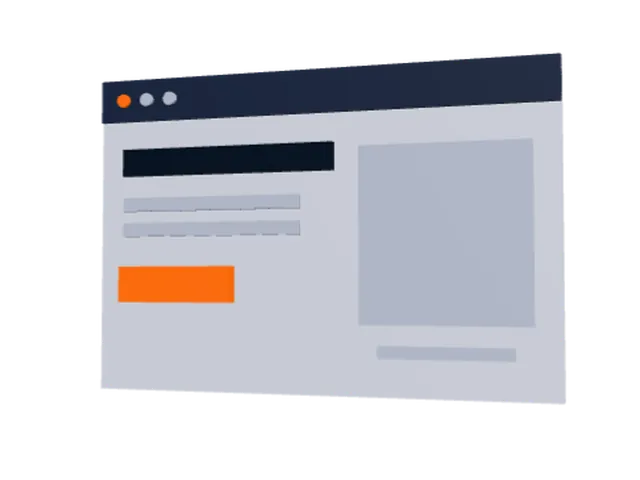
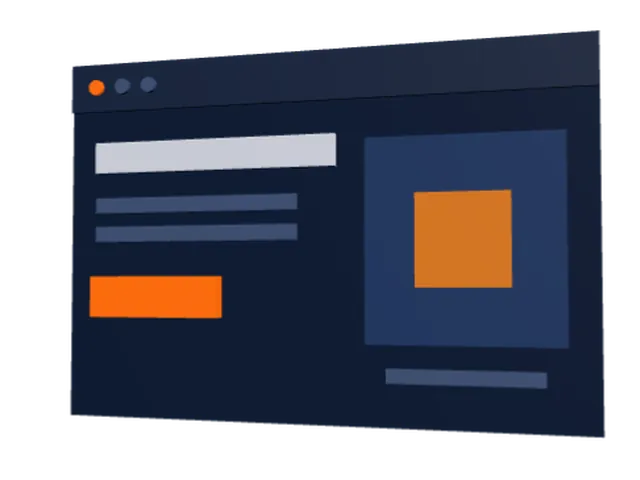
Finish review: phone pin frame, full-sky sunrise, gentler pull-back, full-row bento lead, objects clear of cards, night-mode browser object

diff --git a/src/scripts/object-scene.ts b/src/scripts/object-scene.ts
@@ -93,7 +93,7 @@ export async function mountObjectScene(opts: { canvas: HTMLCanvasElement; kind: 
     add(new CylinderGeometry(0.32, 0.32, 0.08, 32), orange, -0.55, -1.25, 0.22).rotation.x = Math.PI / 2; // answer
     add(new CylinderGeometry(0.32, 0.32, 0.08, 32), mat(0x2e7d5b), 0.55, -1.25, 0.22).rotation.x = Math.PI / 2;
     for (let i = 0; i < 3; i++) {
-      const r = add(new TorusGeometry(1.7 + i * 0.55, 0.035, 8, 64), glow, 0, 0.3, -0.2);
+      const r = add(new TorusGeometry(1.3 + i * 0.45, 0.035, 8, 64), glow, 0, 0.3, -0.2); // stays inside the frame at full swell
       rings.push(r);
     }
   } else if (kind === 'calendar') {
@@ -107,16 +107,21 @@ export async function mountObjectScene(opts: { canvas: HTMLCanvasElement; kind: 
         if (booked) rings.push(cell);
       }
   } else {
-    box(5.4, 3.7, 0.24, white);
+    // A night-mode site in a browser window, in the home scene's colours: navy shell, white headline, orange button.
+    const shell = mat(0x13233e, { roughness: 0.35 });
+    const slate = mat(0x2b4470, { roughness: 0.4 });
+    const dim = mat(0x4a5f84);
+    box(5.4, 3.7, 0.24, shell);
     box(5.4, 0.5, 0.28, navy, 0, 1.6, 0.02);
-    for (let i = 0; i < 3; i++) add(new CylinderGeometry(0.08, 0.08, 0.05, 16), i === 0 ? orange : line, -2.4 + i * 0.3, 1.6, 0.18).rotation.x = Math.PI / 2;
-    box(2.6, 0.32, 0.08, night, -1.1, 0.85, 0.15);
-    box(2.2, 0.16, 0.06, line, -1.3, 0.35, 0.14);
-    box(2.2, 0.16, 0.06, line, -1.3, 0.05, 0.14);
+    for (let i = 0; i < 3; i++) add(new CylinderGeometry(0.08, 0.08, 0.05, 16), i === 0 ? orange : dim, -2.4 + i * 0.3, 1.6, 0.18).rotation.x = Math.PI / 2;
+    box(2.6, 0.32, 0.08, white, -1.1, 0.85, 0.15);
+    box(2.2, 0.16, 0.06, dim, -1.3, 0.35, 0.14);
+    box(2.2, 0.16, 0.06, dim, -1.3, 0.05, 0.14);
     const cta = box(1.4, 0.42, 0.16, orange, -1.7, -0.6, 0.2);
     rings.push(cta);
-    box(1.9, 2.0, 0.1, line, 1.45, -0.05, 0.15); // hero picture block
-    box(1.5, 0.14, 0.06, line, 1.45, -1.35, 0.14);
+    box(1.9, 2.0, 0.1, slate, 1.45, -0.05, 0.15); // hero picture block
+    box(0.9, 0.9, 0.12, glow, 1.45, -0.05, 0.2); // the picture's warm light
+    box(1.5, 0.14, 0.06, dim, 1.45, -1.35, 0.14);
   }
   obj.rotation.set(-0.08, -0.35, 0);
 
@@ -129,7 +134,8 @@ export async function mountObjectScene(opts: { canvas: HTMLCanvasElement; kind: 
     renderer.setSize(width, height, false);
     camera.aspect = width / height;
     // Keep the object inside the box whatever its shape.
-    camera.position.z = width / height < 1 ? 11 / Math.max(0.55, width / height) : 11;
+    const z = kind === 'browser' ? 9.6 : 11; // the wide browser window fills its frame a little more
+    camera.position.z = width / height < 1 ? z / Math.max(0.55, width / height) : z;
     camera.updateProjectionMatrix();
   };
   const ro = new ResizeObserver(resize);
@@ -166,7 +172,7 @@ export async function mountObjectScene(opts: { canvas: HTMLCanvasElement; kind: 
     obj.position.y = Math.sin(t * 1.1) * 0.12;
     rings.forEach((r, i) => {
       if (kind === 'phone') {
-        const s = 1 + ((t * 0.6 + i / 3) % 1) * 0.35;
+        const s = 1 + ((t * 0.6 + i / 3) % 1) * 0.25;
         r.scale.setScalar(s);
         ((r.material as MeshStandardMaterial).opacity = 0.8 * (1 - ((t * 0.6 + i / 3) % 1)));
       } else r.position.z = (kind === 'calendar' ? 0.3 : 0.2) + Math.max(0, Math.sin(t * 2)) * 0.12;

diff --git a/tests/site-flows.js b/tests/site-flows.js
@@ -335,6 +335,41 @@ async (page) => {
     ok(Math.abs(m.f + 2) < 0.6 && Math.abs(m.b) < 0.001 && Math.abs(m.c) < 0.001 && m.is2D, `bento: hover should lift 2px with no tilt (ty ${m.f.toFixed(2)})`);
   }
 
+  // Finish-review fixes (2026-11-19)
+  // a. Phone: the pinned frame is the scene and story only, never a slice of the copy column
+  {
+    const [pw, ph] = [390, 844];
+    await page.setViewportSize({ width: pw, height: ph });
+    await page.goto(BASE + '/', { waitUntil: 'networkidle' });
+    await page.evaluate(() => window.scrollTo(0, 5));
+    await page.waitForTimeout(500);
+    const r = await page.evaluate(() => window.__heroPin);
+    if (r) {
+      await page.evaluate((y) => window.scrollTo(0, y), Math.round(r.start + 0.5 * (r.end - r.start)));
+      await page.waitForTimeout(500);
+      const b = await page.evaluate(() => {
+        const g = (s) => document.querySelector(s).getBoundingClientRect();
+        return { copyBottom: Math.round(g('.nh__trust').bottom), stageTop: Math.round(g('.nh__stage').top), stageBottom: Math.round(g('.nh__stage').bottom) };
+      });
+      ok(b.copyBottom <= 66 && b.stageTop >= 56 && b.stageTop <= 120 && b.stageBottom <= ph + 1, `phone pin frame: copy ends at ${b.copyBottom}, stage ${b.stageTop}-${b.stageBottom} (want copy out of view, stage filling the screen)`);
+    } else ok(false, 'phone pin frame: hero not pinned');
+  }
+  // b. Services bento: the lead cell spans the row (no hollow two-row cell); the other two share the next row
+  await page.setViewportSize({ width: 1440, height: 900 });
+  await page.goto(BASE + '/', { waitUntil: 'networkidle' });
+  {
+    const cells = await page.$$eval('[data-premium="bento"] > li', (ls) => ls.map((l) => { const r = l.getBoundingClientRect(); return { x: r.x, y: Math.round(r.y), w: Math.round(r.width) }; }));
+    const ul = await page.$eval('[data-premium="bento"]', (u) => Math.round(u.getBoundingClientRect().width));
+    ok(cells.length === 3 && Math.abs(cells[0].w - ul) <= 2 && cells[1].y === cells[2].y && cells[1].y > cells[0].y, `bento: lead cell should span the row (${JSON.stringify(cells)}, list ${ul})`);
+  }
+  // c. Service hero: the example card never covers the 3D object
+  for (const path of ['/after-hours-answering-service-minnesota/', '/online-booking-minnesota/', '/website-design-minnesota/']) {
+    await page.goto(BASE + path, { waitUntil: 'networkidle' });
+    const o = await page.$eval('[data-object-hero]', (e) => e.getBoundingClientRect().bottom);
+    const c = await page.$eval('.page-hero__card', (e) => e.getBoundingClientRect().top);
+    ok(c >= o - 1, `${path}: example card overlaps the 3D object by ${Math.round(o - c)}px`);
+  }
+
   // 404: one h1, noindex, no canonical
   await page.goto(BASE + '/no-such-page/');
   ok((await page.locator('h1').count()) === 1 && (await page.locator('meta[name=robots][content="noindex"]').count()) === 1 && !(await page.locator('link[rel=canonical]').count()), '404 page');

diff --git a/src/scripts/night-scene.ts b/src/scripts/night-scene.ts
@@ -441,8 +441,9 @@ export async function mountNightScene({ canvas, stage, fit, reduceMotion, onRead
 
     // Camera: fit the lot in whatever shape the box is
     const az = 0.5 - (yaw + sway + px * 0.1);
-    const el = 0.4 - py * 0.03 + 0.15 * pull;
-    const d = dist * (1 + 0.6 * pull);
+    // A gentle pull-back: the lot stays big enough to read the van at the end of the film.
+    const el = 0.4 - py * 0.03 + 0.08 * pull;
+    const d = dist * (1 + 0.3 * pull);
     camera.position.set(
       target.x + Math.sin(az) * Math.cos(el) * d,
       target.y + Math.sin(el) * d,
@@ -541,7 +542,7 @@ export async function mountNightScene({ canvas, stage, fit, reduceMotion, onRead
     const hFit = Math.atan(tanV * (Math.max(1, fr.width) / height));
     dist = 7.7 / Math.sin(Math.min(vFit, hFit));
     camera.near = Math.max(0.1, dist - 22);
-    camera.far = dist * 1.6 + 22; // room for the pull-back
+    camera.far = dist * 1.3 + 22; // room for the pull-back
     // Draw the lot centred on the fit box, not on the middle of the hero.
     const cx = fr.left - sr.left + fr.width / 2;
     const cy = fr.top - sr.top + fr.height / 2;
